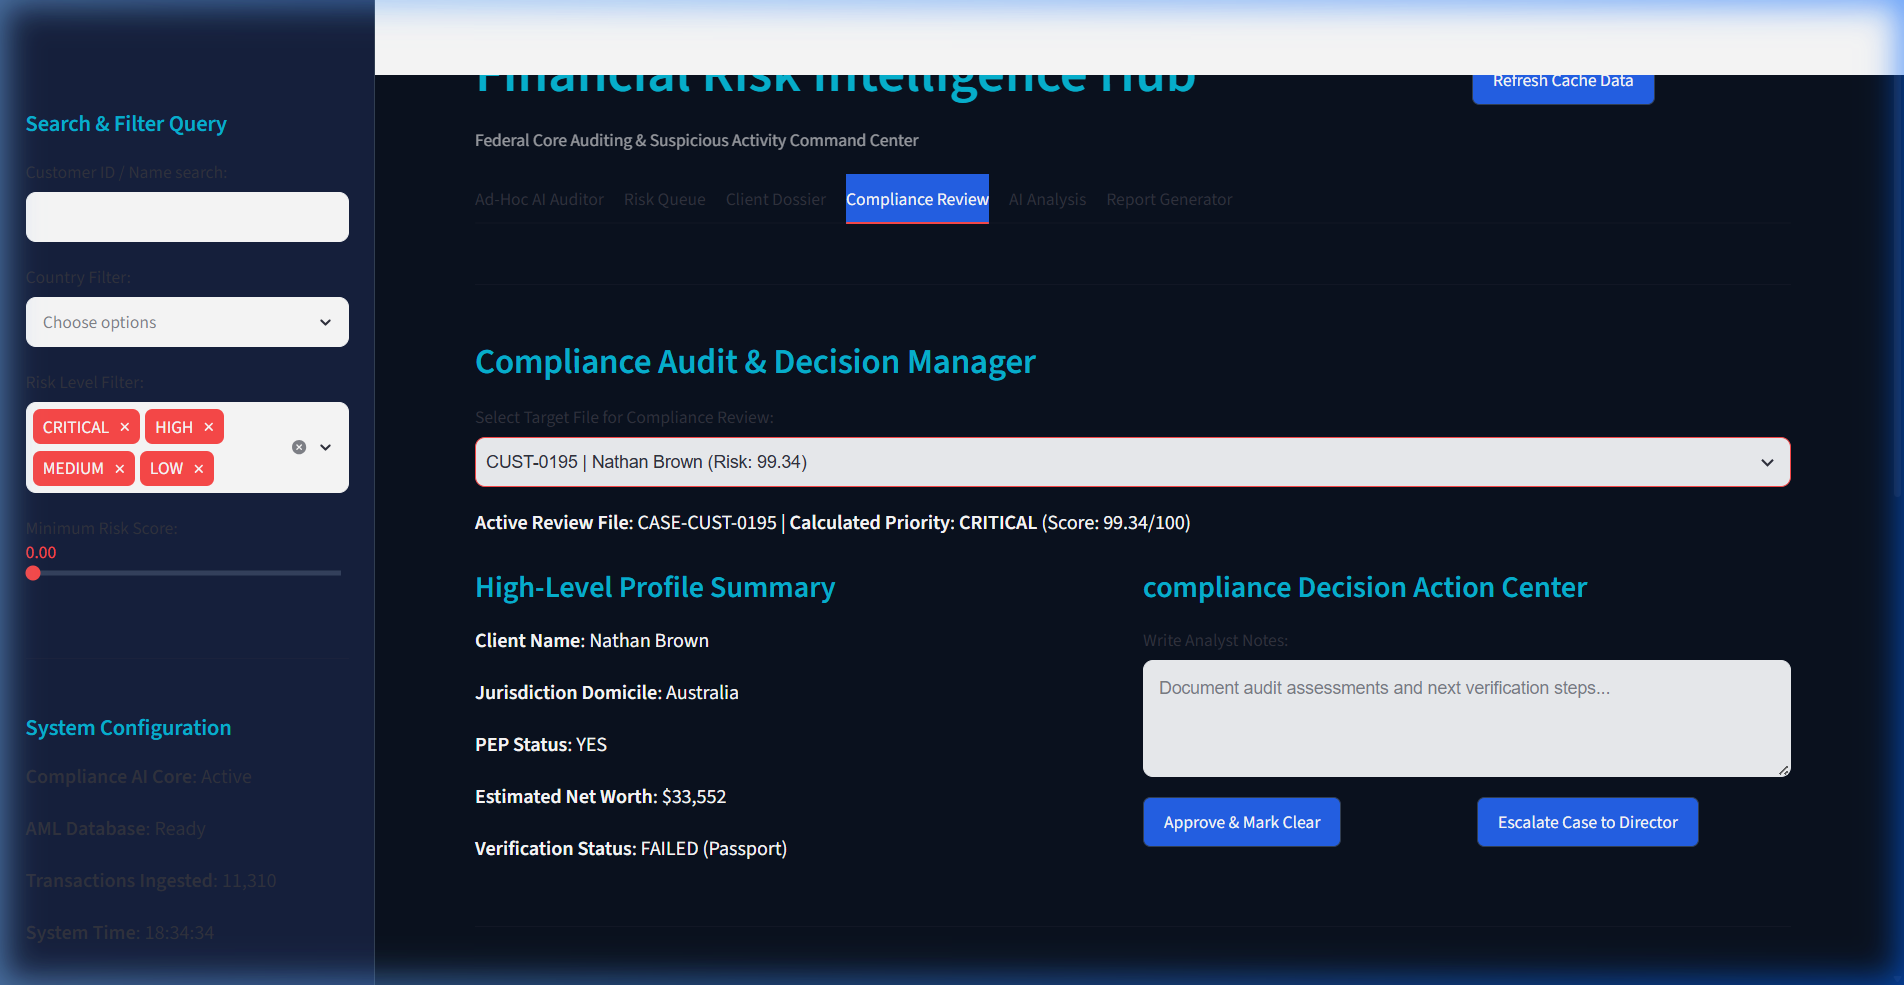
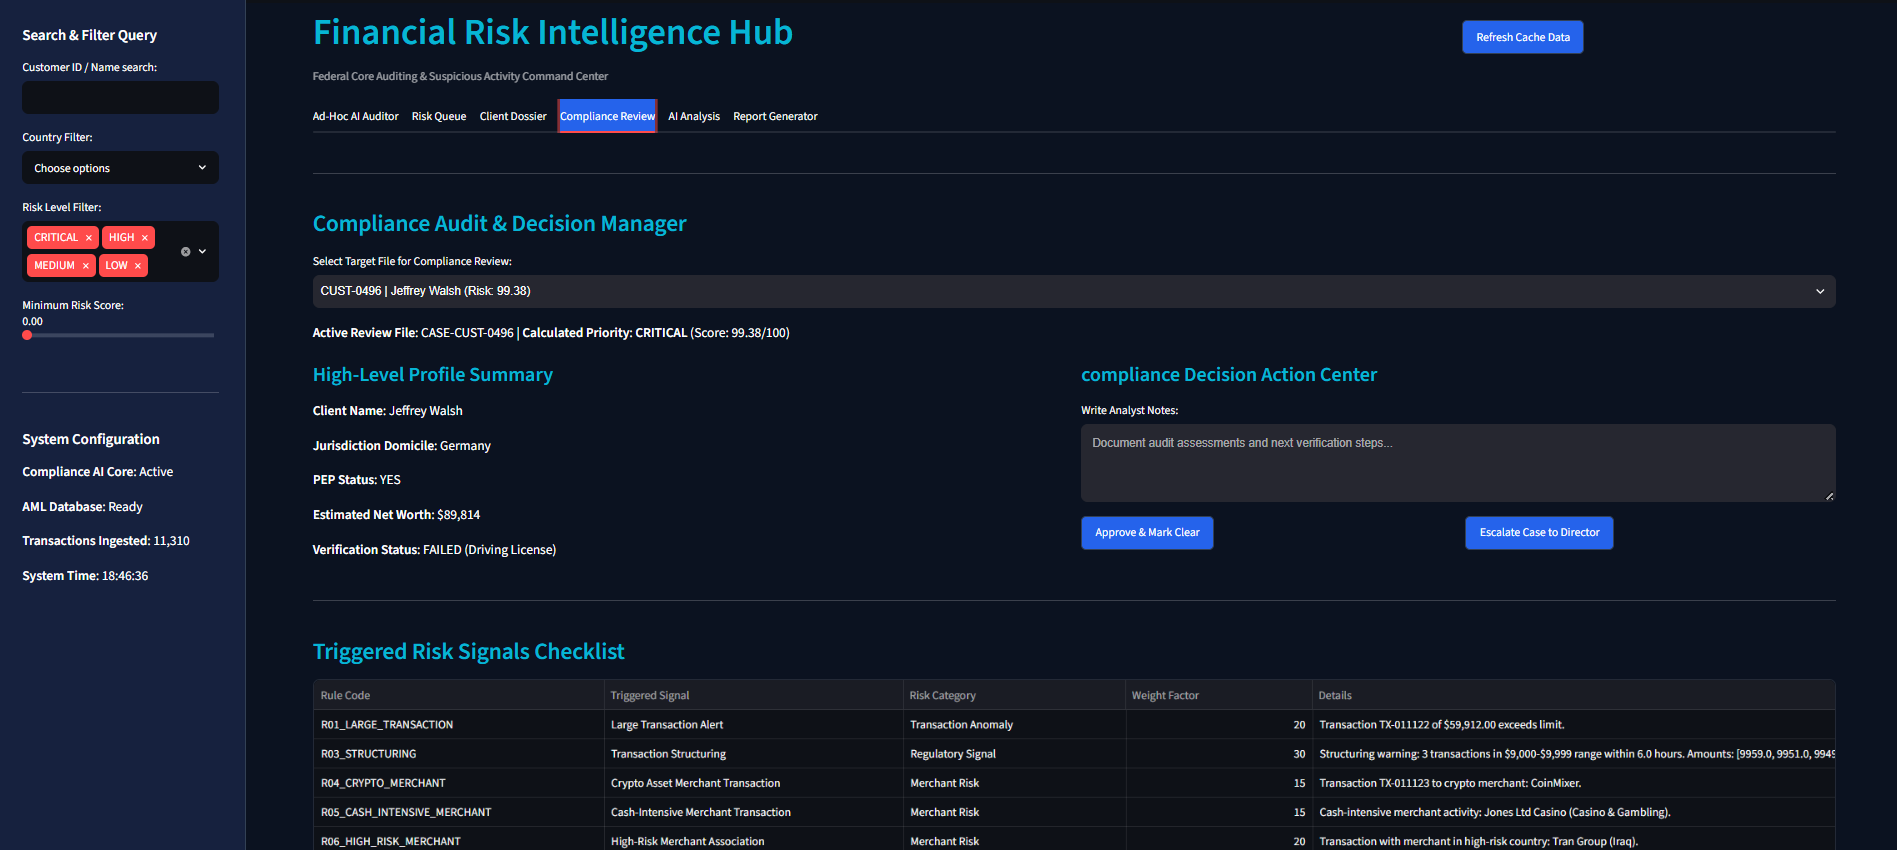
feat: add UI assets and update sidebar, card, tab, and expander CSS styling for improved visual consistency

diff --git a/app.py b/app.py
@@ -136,6 +136,9 @@ st.markdown("""
         background-color: #16213E !important;
         border-right: 1px solid #334155;
     }
+    [data-testid="stSidebar"] label, [data-testid="stSidebar"] p, [data-testid="stSidebar"] span, [data-testid="stSidebar"] div, [data-testid="stSidebar"] h1, [data-testid="stSidebar"] h2, [data-testid="stSidebar"] h3 {
+        color: #FFFFFF !important;
+    }
     
     /* Header Styling */
     h1, h2, h3, h4, h5, h6 {
@@ -173,12 +176,16 @@ st.markdown("""
     
     /* Utility Card panels class */
     .custom-card {
-        background-color: #16213E;
+        background-color: #16213E !important;
+        color: #FFFFFF !important;
         border: 1px solid #334155;
         border-radius: 8px;
         padding: 20px;
         margin-bottom: 20px;
         box-shadow: 0 4px 6px -1px rgba(0, 0, 0, 0.1);
+    }
+    .custom-card h1, .custom-card h2, .custom-card h3, .custom-card h4, .custom-card h5, .custom-card h6, .custom-card p, .custom-card span, .custom-card div, .custom-card b {
+        color: #FFFFFF !important;
     }
     
     /* Buttons Custom Theme */
@@ -201,16 +208,25 @@ st.markdown("""
     
     /* Tab Styling */
     .stTabs [data-baseweb="tab-list"] {
+        background-color: #0B1220 !important;
+        border-bottom: 2px solid #334155;
+        padding: 5px 10px 0px 10px;
         gap: 10px;
     }
     
     .stTabs [data-baseweb="tab"] {
-        background-color: #16213E;
-        border: 1px solid #334155;
+        background-color: #16213E !important;
+        color: #94A3B8 !important;
+        border: 1px solid #334155 !important;
+        border-bottom: none !important;
         border-radius: 6px 6px 0px 0px;
         padding: 8px 16px;
-        color: #94A3B8;
         font-weight: 600;
+    }
+    
+    .stTabs [data-baseweb="tab"]:hover {
+        color: #FFFFFF !important;
+        background-color: #1E293B !important;
     }
     
     .stTabs [aria-selected="true"] {
@@ -229,11 +245,15 @@ st.markdown("""
     
     .streamlit-expanderContent {
         background-color: #0B1220 !important;
+        color: #E2E8F0 !important;
         border-left: 1px solid #334155 !important;
         border-right: 1px solid #334155 !important;
         border-bottom: 1px solid #334155 !important;
         border-radius: 0px 0px 6px 6px !important;
         padding: 15px !important;
+    }
+    .streamlit-expanderContent p, .streamlit-expanderContent span, .streamlit-expanderContent div, .streamlit-expanderContent li, .streamlit-expanderContent ol, .streamlit-expanderContent ul, .streamlit-expanderContent b, .streamlit-expanderContent strong {
+        color: #E2E8F0 !important;
     }
     
     /* Status Label classes */
